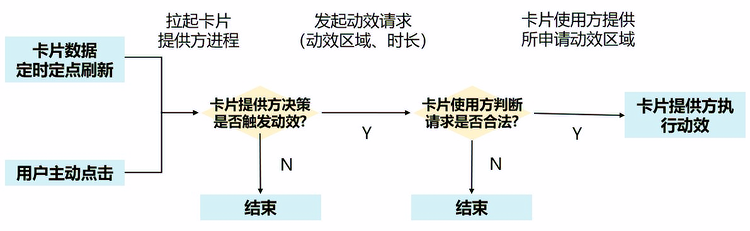
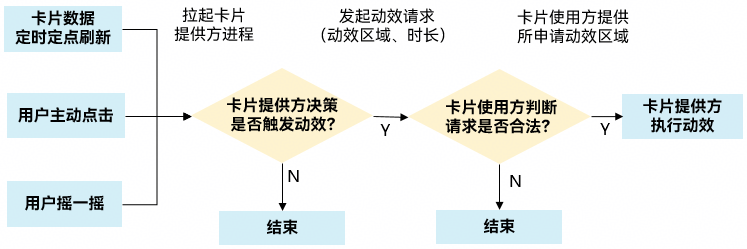
互动卡片资料

diff --git a/zh-cn/application-dev/form/arkts-ui-liveform-sceneanimation-overview.md b/zh-cn/application-dev/form/arkts-ui-liveform-sceneanimation-overview.md
@@ -31,11 +31,13 @@
 
 ![live-form-click-timeline.png](figures/live-form-click-timeline.png)
 
-定时定点刷新互动卡片动效的时序图如下。
-
 **图4** 定时定点触发互动卡片动效时序图
 
 ![live-form-update-timeline.png](figures/live-form-update-timeline.png)
+
+**图5** 摇一摇触发互动卡片动效时序图
+
+![live-form-shake-timeline.png](figures/live-form-shake-timeline.png)
 
 ## 约束和限制
 
@@ -56,7 +58,7 @@
 | 4 * 4 | 不超过AD边长的125%。| 不超过AB边长的125%。|
 | 6 * 4 | 不超过AD边长的125%。| 不超过AB边长的110%。|
 
-**图5** 互动卡片动效区域申请规则说明
+**图6** 互动卡片动效区域申请规则说明
 
 ![live-form-overflow-rule.png](figures/live-form-overflow-rule.png)
 